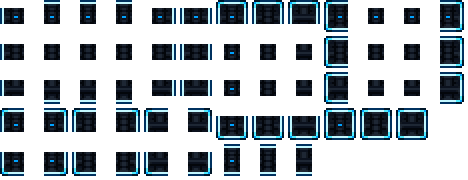
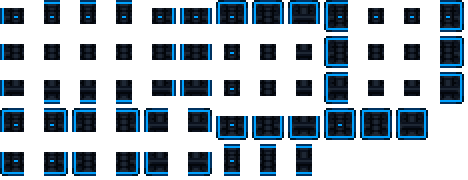
Some lighting changes on the walls

diff --git a/Items/Otherworld/PortalPlatingWall.cs b/Items/Otherworld/PortalPlatingWall.cs
@@ -11,7 +11,7 @@ namespace SOTS.Items.Otherworld
 	{
 		public override void SetStaticDefaults()
 		{
-			DisplayName.SetDefault("Avaritian Plating Wall");
+			DisplayName.SetDefault("Avaritia Plating Wall");
 			Tooltip.SetDefault("");
 		}
 
@@ -40,11 +40,11 @@ namespace SOTS.Items.Otherworld
 	}
 	public class AvaritianPlatingWallWall : ModWall
 	{
-		public override bool PreDraw(int i, int j, SpriteBatch spriteBatch)
+		public static void DrawWallGlow(int wallType, int i, int j, SpriteBatch spriteBatch)
 		{
 			float uniquenessCounter = Main.GlobalTime * -100 + (i + j) * 5;
 			Tile tile = Main.tile[i, j];
-			Texture2D texture = mod.GetTexture("Items/Otherworld/AvaritianPlatingWallWallGlow");
+			Texture2D texture = ModContent.GetTexture("SOTS/Items/Otherworld/AvaritianPlatingWallWallGlow");
 			int xLength = 32;
 			int xOff = 0;
 			/*if (Main.tile[i - 1, j].wall != 0)// && Main.tile[i + 1, j].wall == 0)
@@ -67,12 +67,16 @@ namespace SOTS.Items.Otherworld
 				zero = Vector2.Zero;
 			}
 			Vector2 pos = new Vector2((i * 16 - (int)Main.screenPosition.X), (j * 16 - (int)Main.screenPosition.Y)) + zero;
-			Main.spriteBatch.Draw(Main.wallTexture[Type], pos + new Vector2(-8 + xOff, -8), frame, Lighting.GetColor(i, j, Color.White), 0f, Vector2.Zero, 1f, SpriteEffects.None, 0f);
+			Main.spriteBatch.Draw(Main.wallTexture[wallType], pos + new Vector2(-8 + xOff, -8), frame, Lighting.GetColor(i, j, Color.White), 0f, Vector2.Zero, 1f, SpriteEffects.None, 0f);
 			for (int k = 0; k < 3; k++)
 			{
-				Vector2 offset = new Vector2(Main.rand.NextFloat(-1, 1f), Main.rand.NextFloat(-1, 1f)) * 0.25f * k;
-				Main.spriteBatch.Draw(texture, pos + offset + new Vector2(-8 + xOff, -8), frame, color * alphaMult * 0.8f, 0f, Vector2.Zero, 1f, SpriteEffects.None, 0f);
+				Vector2 offset = new Vector2(Main.rand.NextFloat(-1, 1f), Main.rand.NextFloat(-1, 1f)) * 0.2f * k;
+				Main.spriteBatch.Draw(texture, pos + offset + new Vector2(-8 + xOff, -8), frame, color * alphaMult * 0.4f, 0f, Vector2.Zero, 1f, SpriteEffects.None, 0f);
 			}
+		}
+		public override bool PreDraw(int i, int j, SpriteBatch spriteBatch)
+		{
+			DrawWallGlow(Type, i, j, spriteBatch);
 			return false;
 		}
 		public override void SetDefaults()
@@ -87,37 +91,7 @@ namespace SOTS.Items.Otherworld
 	{
 		public override bool PreDraw(int i, int j, SpriteBatch spriteBatch)
 		{
-			float uniquenessCounter = Main.GlobalTime * -100 + (i + j) * 5;
-			Tile tile = Main.tile[i, j];
-			Texture2D texture = mod.GetTexture("Items/Otherworld/AvaritianPlatingWallWallGlow");
-			int xLength = 32;
-			int xOff = 0;
-			/*if (Main.tile[i - 1, j].wall != 0)// && Main.tile[i + 1, j].wall == 0)
-			{
-				xOff += 8;
-				xLength -= 8;
-			}
-			if (Main.tile[i + 1, j].wall != 0)// && Main.tile[i - 1, j].wall == 0)
-			{
-				xLength -= 8;
-			}*/
-			Rectangle frame = new Rectangle(tile.wallFrameX() + xOff, tile.wallFrameY(), xLength, 32);
-			Color color;
-			color = WorldGen.paintColor((int)tile.wallColor()) * (100f / 255f);
-			color.A = 0;
-			float alphaMult = 0.55f + 0.45f * (float)Math.Sin(MathHelper.ToRadians(uniquenessCounter));
-			Vector2 zero = new Vector2(Main.offScreenRange, Main.offScreenRange);
-			if (Main.drawToScreen)
-			{
-				zero = Vector2.Zero;
-			}
-			Vector2 pos = new Vector2((i * 16 - (int)Main.screenPosition.X), (j * 16 - (int)Main.screenPosition.Y)) + zero;
-			Main.spriteBatch.Draw(Main.wallTexture[Type], pos + new Vector2(-8 + xOff, -8), frame, Lighting.GetColor(i, j, Color.White), 0f, Vector2.Zero, 1f, SpriteEffects.None, 0f);
-			for (int k = 0; k < 3; k++)
-			{
-				Vector2 offset = new Vector2(Main.rand.NextFloat(-1, 1f), Main.rand.NextFloat(-1, 1f)) * 0.25f * k;
-				Main.spriteBatch.Draw(texture, pos + offset + new Vector2(-8 + xOff, -8), frame, color * alphaMult * 0.8f, 0f, Vector2.Zero, 1f, SpriteEffects.None, 0f);
-			}
+			AvaritianPlatingWallWall.DrawWallGlow(Type, i, j, spriteBatch);
 			return false;
 		}
 		public override void SetDefaults()
